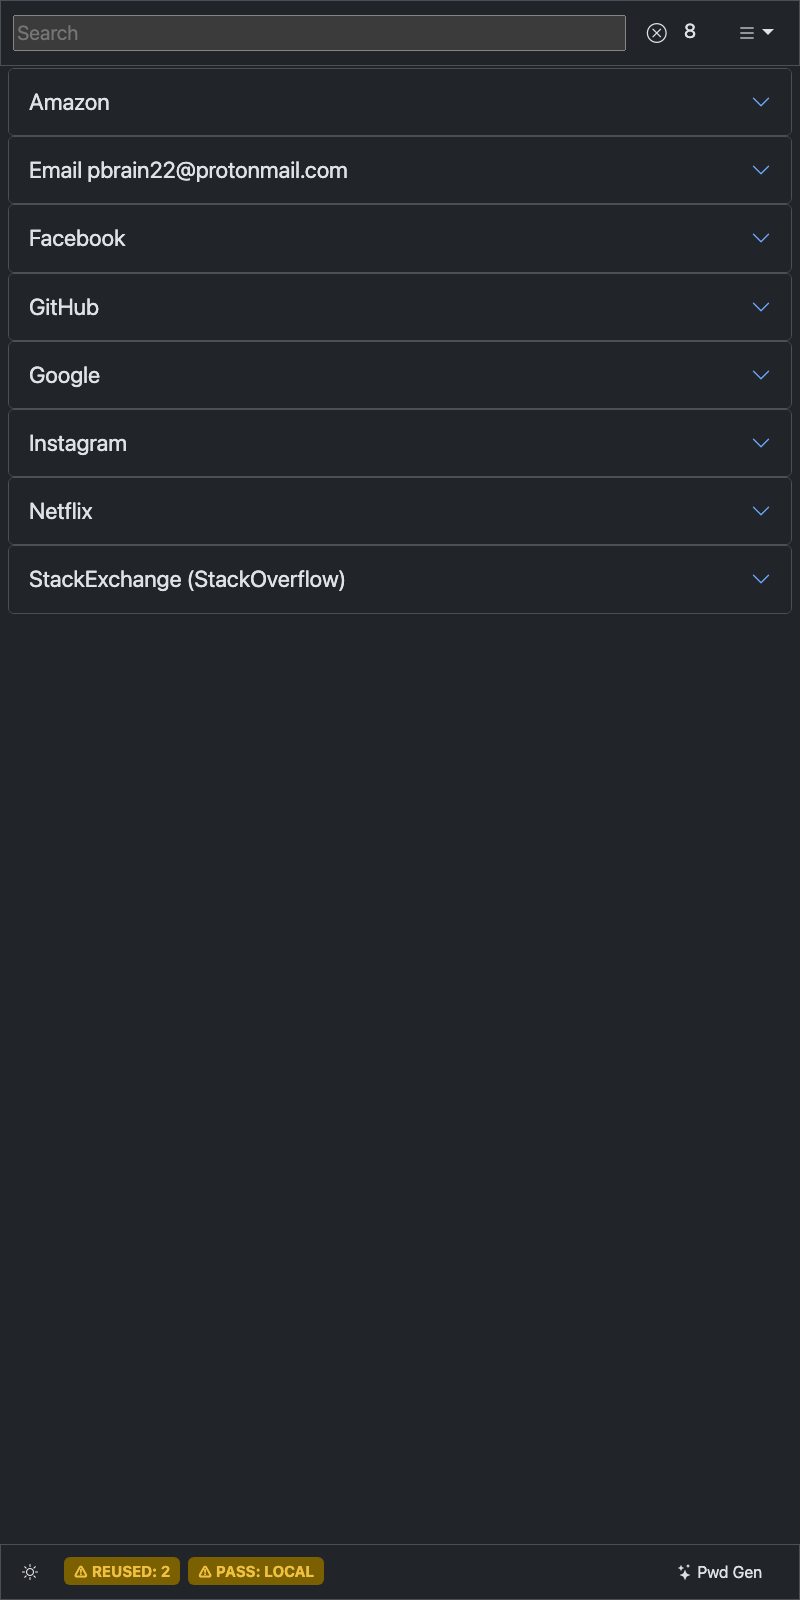
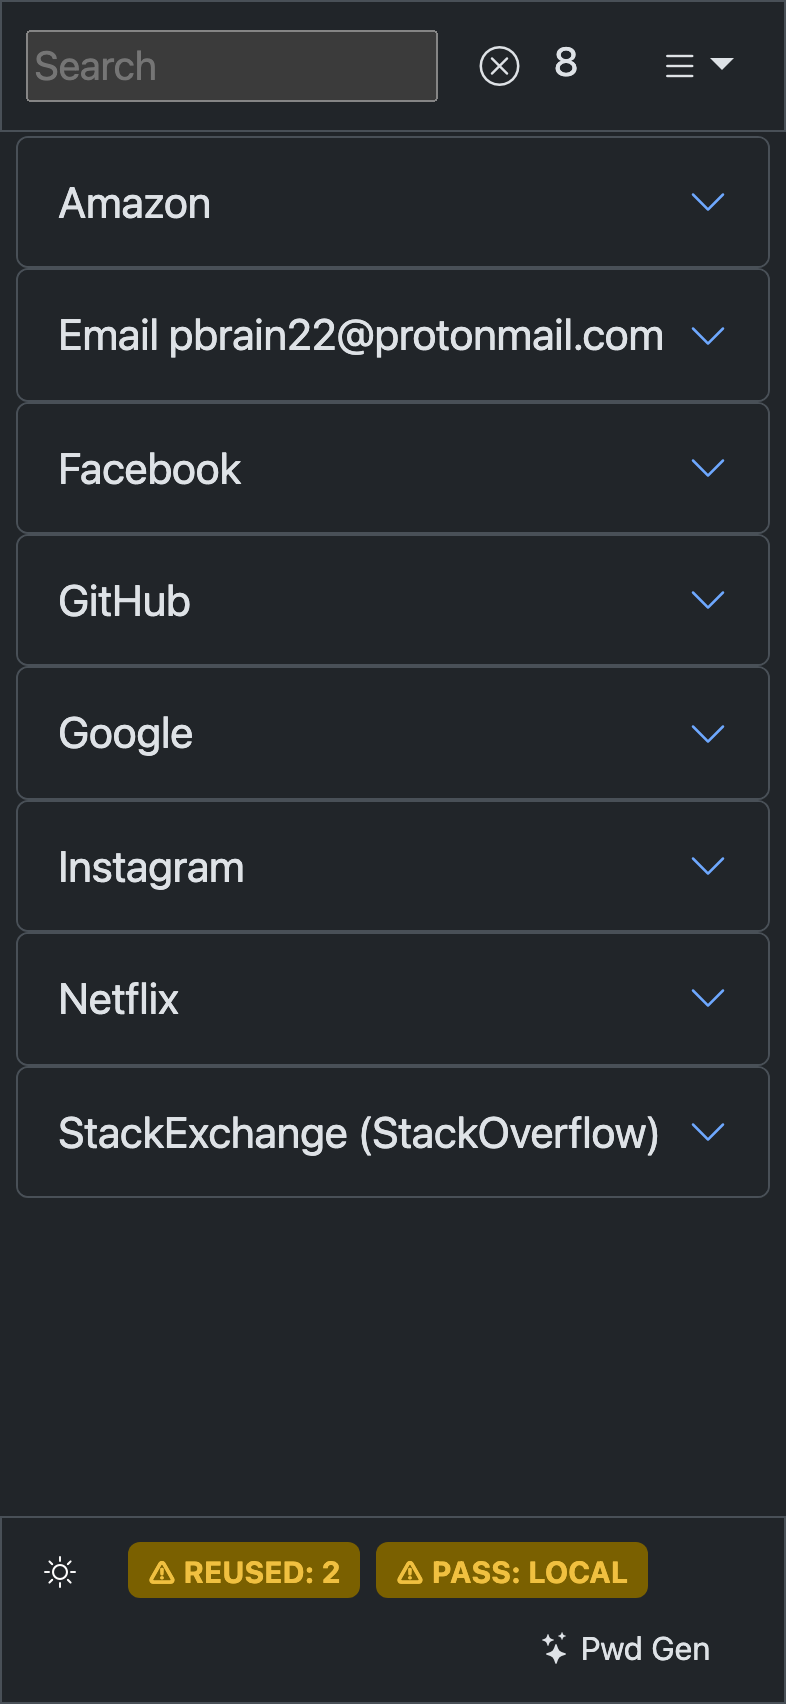
add the idea to fix empty vertical whitespace

diff --git a/tests/screenshots.py b/tests/screenshots.py
@@ -74,13 +74,39 @@ NARROW = (800, 1600)
 # clipping anything: the result is a real screenshot of a shorter window, not
 # a cropped image.
 #
-# Deliberately NOT applied to the iPhone captures. Those exist to show PAM at
-# phone proportions, and trimming them to content would defeat the point.
+# Deliberately NOT applied to the iPhone captures; see IPHONE below.
 FIT = 'fit'
 
 # Never shrink below this. A viewport too short to hold the fixed header and
 # footer produces a nonsense image rather than a compact one.
 MIN_FIT_HEIGHT = 320
+
+# A real iPhone viewport: 393x852 CSS pixels, the iPhone 15 / 16 logical size.
+#
+# CSS pixels, not device pixels. An iPhone 15 is physically 1179x2556, but
+# setting a 786-wide viewport would lay the page out at tablet width and
+# render nothing like a phone — PAM is responsive, so the CSS width is what
+# determines the layout. The resulting image is 393x852 at 1x; a retina-density
+# capture would need --force-device-scale-factor on the driver, which
+# get_driver() does not set and which the e2e tests share.
+#
+# The README says of these two captures "it looks something like this on my
+# iphone", so the empty space below the records is not waste — it is what the
+# claim asserts, and eight records really do leave a phone screen mostly
+# empty. The other full-page shots are fitted to content precisely because
+# they make no such claim.
+#
+# Without this they would be identical to pam-example-records and
+# pam-basic-sections: same theme, same data, same viewport. The genuine phone
+# dimensions are what earn them separate files.
+IPHONE = (393, 852)
+
+# Chrome will not make a window narrower than about 500px on macOS, so a
+# 393px viewport is unreachable by resizing. Device emulation via the Chrome
+# DevTools Protocol sets the viewport independently of the window, which also
+# makes a 2x capture possible — the retina density that plain resizing could
+# not give.
+IPHONE_SCALE = 2
 
 HERE = os.path.dirname(os.path.abspath(__file__))
 HELP = os.path.join(os.path.dirname(HERE), 'www', 'help')
@@ -185,6 +211,31 @@ OVERFLOW_JS = (
     "const mid = document.getElementById('mid-section');"
     "return mid ? mid.scrollHeight - mid.clientHeight : 0;"
 )
+
+
+def set_device_metrics(driver, width, height, scale=1, mobile=True):
+    """Emulate a device viewport through the DevTools Protocol.
+
+    set_window_size() cannot produce a phone-width viewport: Chrome enforces a
+    minimum window width around 500px on macOS, so asking for 393 yields 500.
+    Emulation.setDeviceMetricsOverride sets the viewport directly, and takes a
+    deviceScaleFactor, so the capture can be retina density as well.
+
+    Chrome-specific, which is fine — the whole harness is ChromeDriver.
+    """
+    driver.execute_cdp_cmd('Emulation.setDeviceMetricsOverride', {
+        'width': width,
+        'height': height,
+        'deviceScaleFactor': scale,
+        'mobile': mobile,
+    })
+    time.sleep(0.4)
+
+
+def clear_device_metrics(driver):
+    """Drop any device emulation, so later shots size normally."""
+    driver.execute_cdp_cmd('Emulation.clearDeviceMetricsOverride', {})
+    time.sleep(0.3)
 
 
 def fit_viewport_to_content(driver, width, start_height):
@@ -563,8 +614,8 @@ SHOTS = [
     ('pam-prefs-admin.png', shot_prefs_admin, WINDOW),
 
     ('pam-example-records.png', shot_records_dark, (800, FIT)),
-    ('pam-iphone-screenshot-dark.png', shot_records_dark, NARROW),
-    ('pam-iphone-screenshot-light.png', shot_records_light, NARROW),
+    ('pam-iphone-screenshot-dark.png', shot_records_dark, IPHONE),
+    ('pam-iphone-screenshot-light.png', shot_records_light, IPHONE),
     ('pam-basic-sections.png', shot_records_dark, (800, FIT)),
     ('pam-search-g.png', shot_search_g, (800, FIT)),
     ('pam-search-g-re.png', shot_search_g_re, (800, FIT)),
@@ -585,10 +636,21 @@ def png_size(data):
     return (int.from_bytes(data[16:20], 'big'), int.from_bytes(data[20:24], 'big'))
 
 
-def capture(driver, filename, func, check_only):
-    '''Capture one screenshot. Returns 'new', 'changed' or 'same'.'''
+def capture(driver, filename, func, check_only, fit=False):
+    '''Capture one screenshot. Returns (state, (width, height)).
+
+    When `fit` is set the viewport is shrunk to the content AFTER the shot
+    function has run, not before. The shot is what arranges the state — it
+    filters the record list, or expands a record — so fitting first measures
+    the wrong thing: the search captures came out sized for all eight records
+    when the filter leaves three, and the expanded record in pam-status-msg
+    was sized as though it were collapsed.
+    '''
     path = os.path.join(HELP, filename)
     element = func(driver)
+    if fit:
+        fit_viewport_to_content(driver, NARROW[0], NARROW[1])
+        time.sleep(0.3)
 
     # A hidden or collapsed element yields "Cannot take screenshot with 0
     # width" from chromedriver, several frames deep and without naming the
@@ -621,7 +683,7 @@ def capture(driver, filename, func, check_only):
     if state != 'same' and not check_only:
         with open(path, 'wb') as handle:
             handle.write(png)
-    return state
+    return state, png_size(png)
 
 
 def main():
@@ -635,20 +697,31 @@ def main():
         load_examples(driver)
 
         for filename, func, window in SHOTS:
-            if window[1] == FIT:
-                fit_viewport_to_content(driver, window[0], NARROW[1])
+            fit = window[1] == FIT
+            if window == IPHONE:
+                set_device_metrics(driver, *IPHONE, scale=IPHONE_SCALE)
             else:
-                set_viewport_size(driver, *window)
-            state = capture(driver, filename, func, check_only)
+                clear_device_metrics(driver)
+                # For a fitting shot this is only the starting size; the shot
+                # runs at full height and capture() shrinks afterwards.
+                set_viewport_size(driver, window[0], NARROW[1] if fit else window[1])
+            state, (shot_w, shot_h) = capture(driver, filename, func, check_only, fit)
             marker = {'new': 'NEW    ', 'changed': 'CHANGED', 'same': 'same   '}[state]
-            print(f'  {marker}  {filename}')
+            print(f'  {marker}  {filename:38} {shot_w}x{shot_h}')
             if state != 'same':
                 changed.append(filename)
             # Every capture leaves state behind — an open dialogue, a search
             # term, a changed theme or preference. Reloading resets all of it,
             # which is cheaper to reason about than tracking what each surface
-            # needs undone. The window is resized before the reload so the page
-            # lays out at the size the next shot expects.
+            # needs undone.
+            #
+            # Reloading does NOT reset the window, though, and a fitted shot
+            # leaves it short: after pam-search-g-re the viewport is 320px
+            # tall, and in that window the fixed footer overlaps the dropdown
+            # menu, so the next Load File click is intercepted by the Pwd Gen
+            # button. Restore a roomy viewport before the reset.
+            clear_device_metrics(driver)
+            set_viewport_size(driver, *WINDOW)
             driver.get(URL)
             time.sleep(0.8)
             load_examples(driver)

diff --git a/PROPOSAL.md b/PROPOSAL.md
@@ -281,9 +281,27 @@ silently clipped, so it grows by the shortfall and rechecks. `MIN_FIT_HEIGHT`
 stops it shrinking below a viewport that can hold the fixed bars.
 
 Applied to `pam-example-records`, `pam-basic-sections`, `pam-search*` and
-`pam-status-msg`. **Deliberately not applied to the iPhone captures** — those
-exist to show PAM at phone proportions, and trimming them to content would
-defeat the point.
+`pam-status-msg`.
+
+**Not applied to the iPhone captures.** Those are taken at a genuine iPhone
+viewport instead — 393x852 CSS pixels, the iPhone 15 / 16 logical size. The
+README says "it looks something like this on my iphone", so the empty space
+below the records is what the claim asserts rather than waste: eight records
+really do leave a phone screen mostly empty.
+
+Note this is **CSS pixels, not device pixels**. An iPhone 15 is physically
+1179x2556, but a 786-wide viewport would lay the page out at tablet width and
+render nothing like a phone, since PAM is responsive and the CSS width drives
+the layout. The image is therefore 393x852 at 1x; a retina-density capture
+would need `--force-device-scale-factor` on the driver, which `get_driver()`
+does not set and which the e2e tests share.
+
+Without the distinct viewport, `pam-iphone-screenshot-dark`,
+`pam-example-records` and `pam-basic-sections` would be **the same image** —
+same theme, same data, same size. The phone dimensions are what earn the
+iPhone shots separate files. The other three still are the same picture, and
+consolidating them to one file referenced from three places is worth doing in
+the README pass.
 
 Note this makes those images vary in height with the example data. Adding a
 record makes them taller. That is correct behaviour, but it means they will
